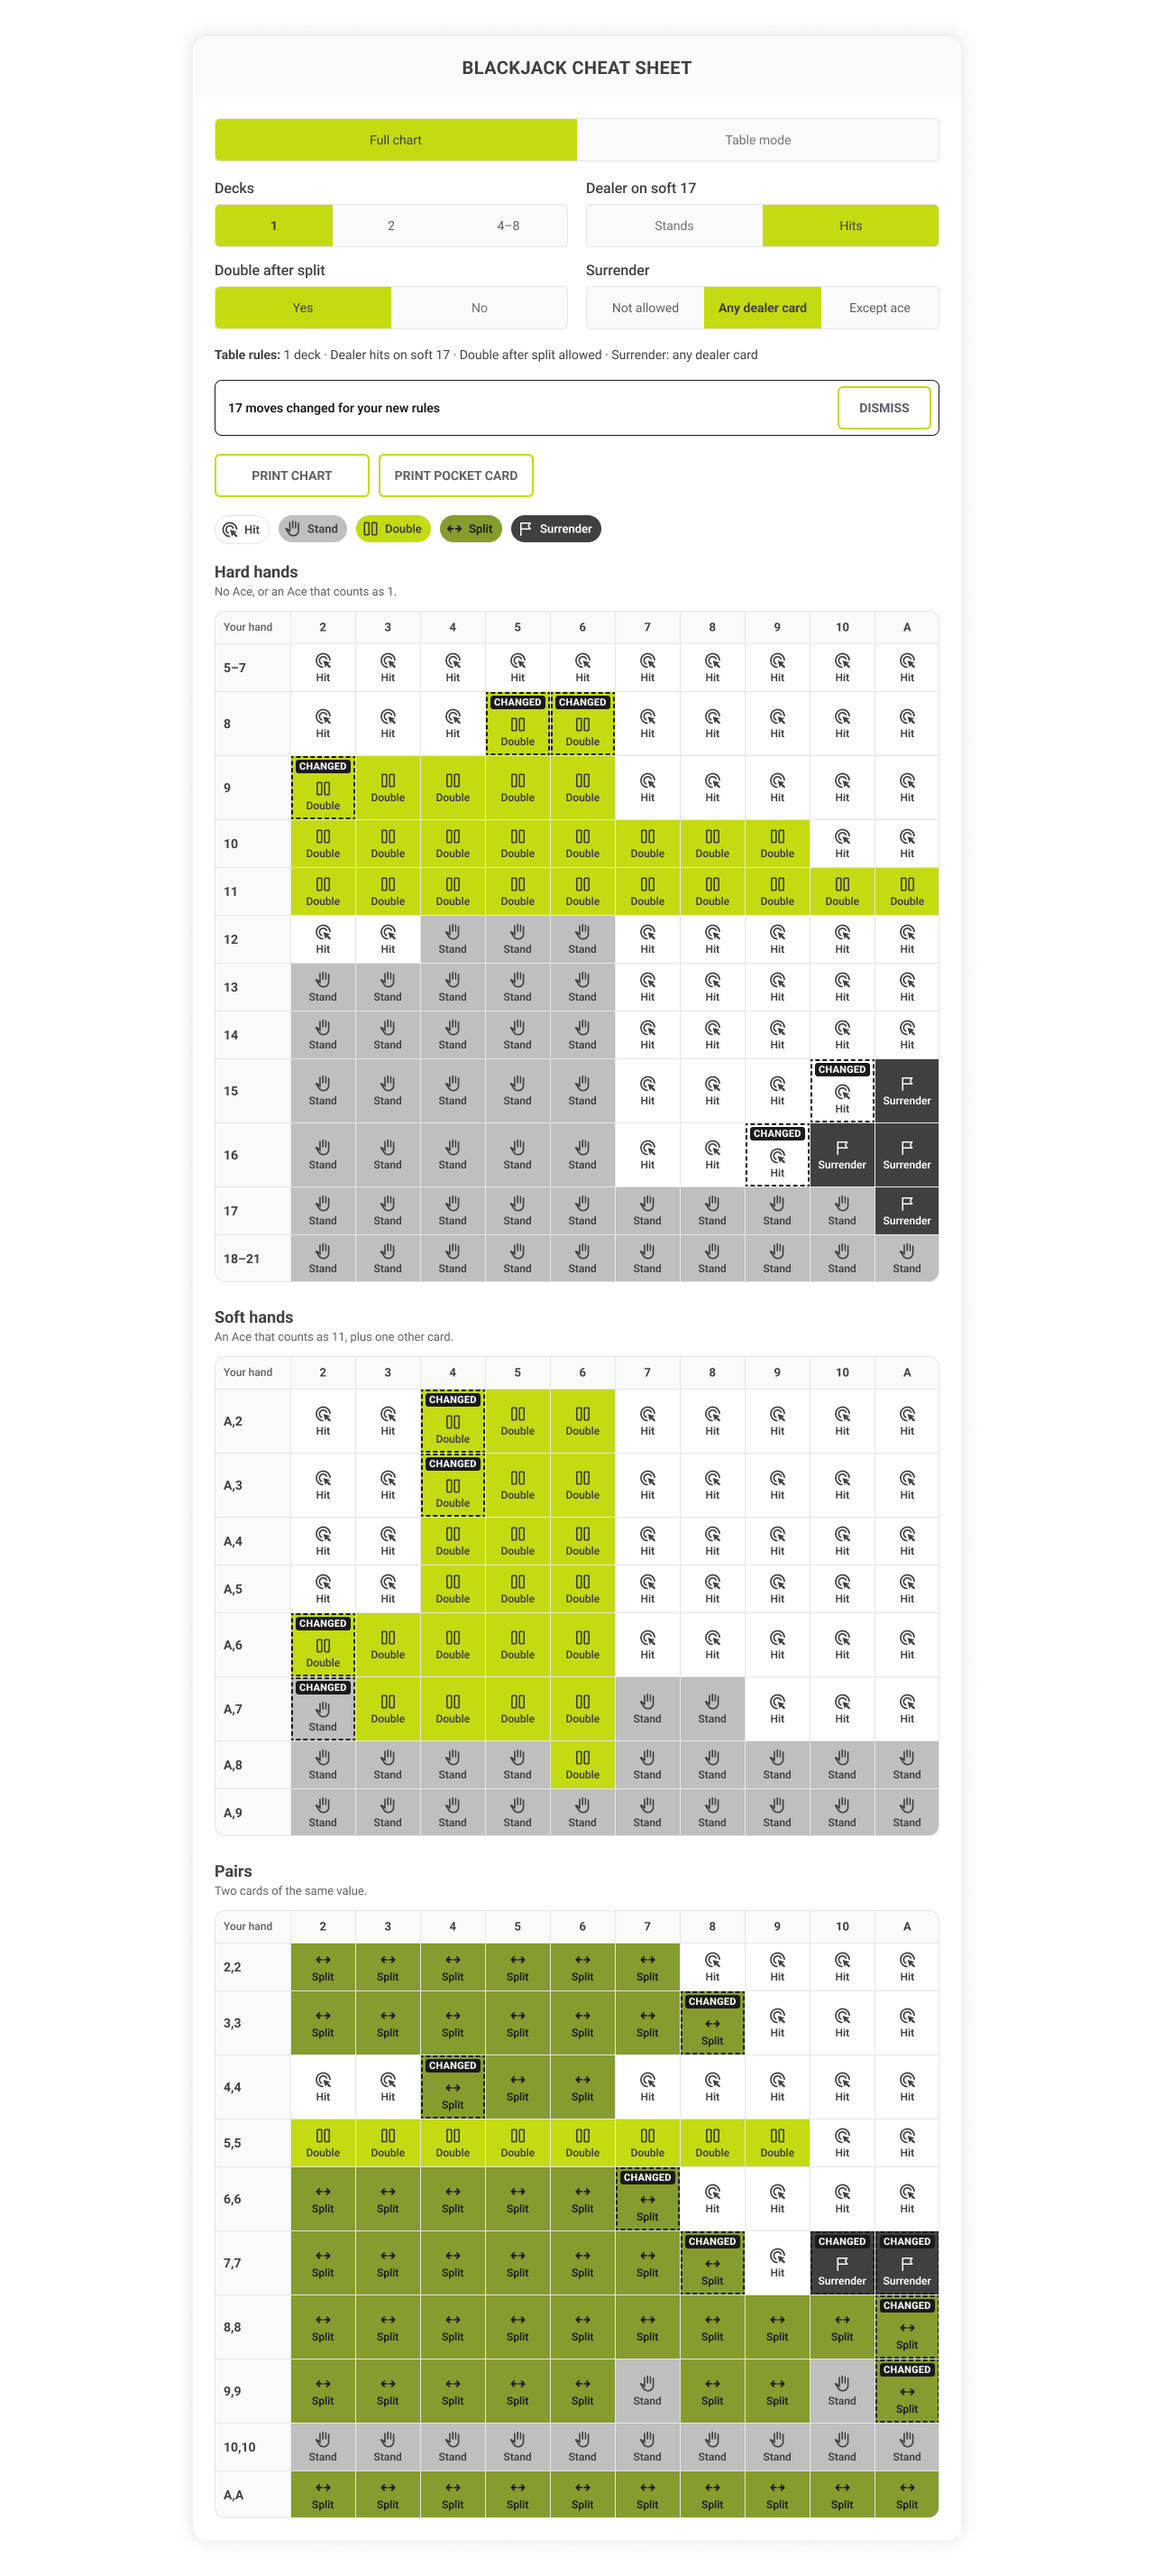
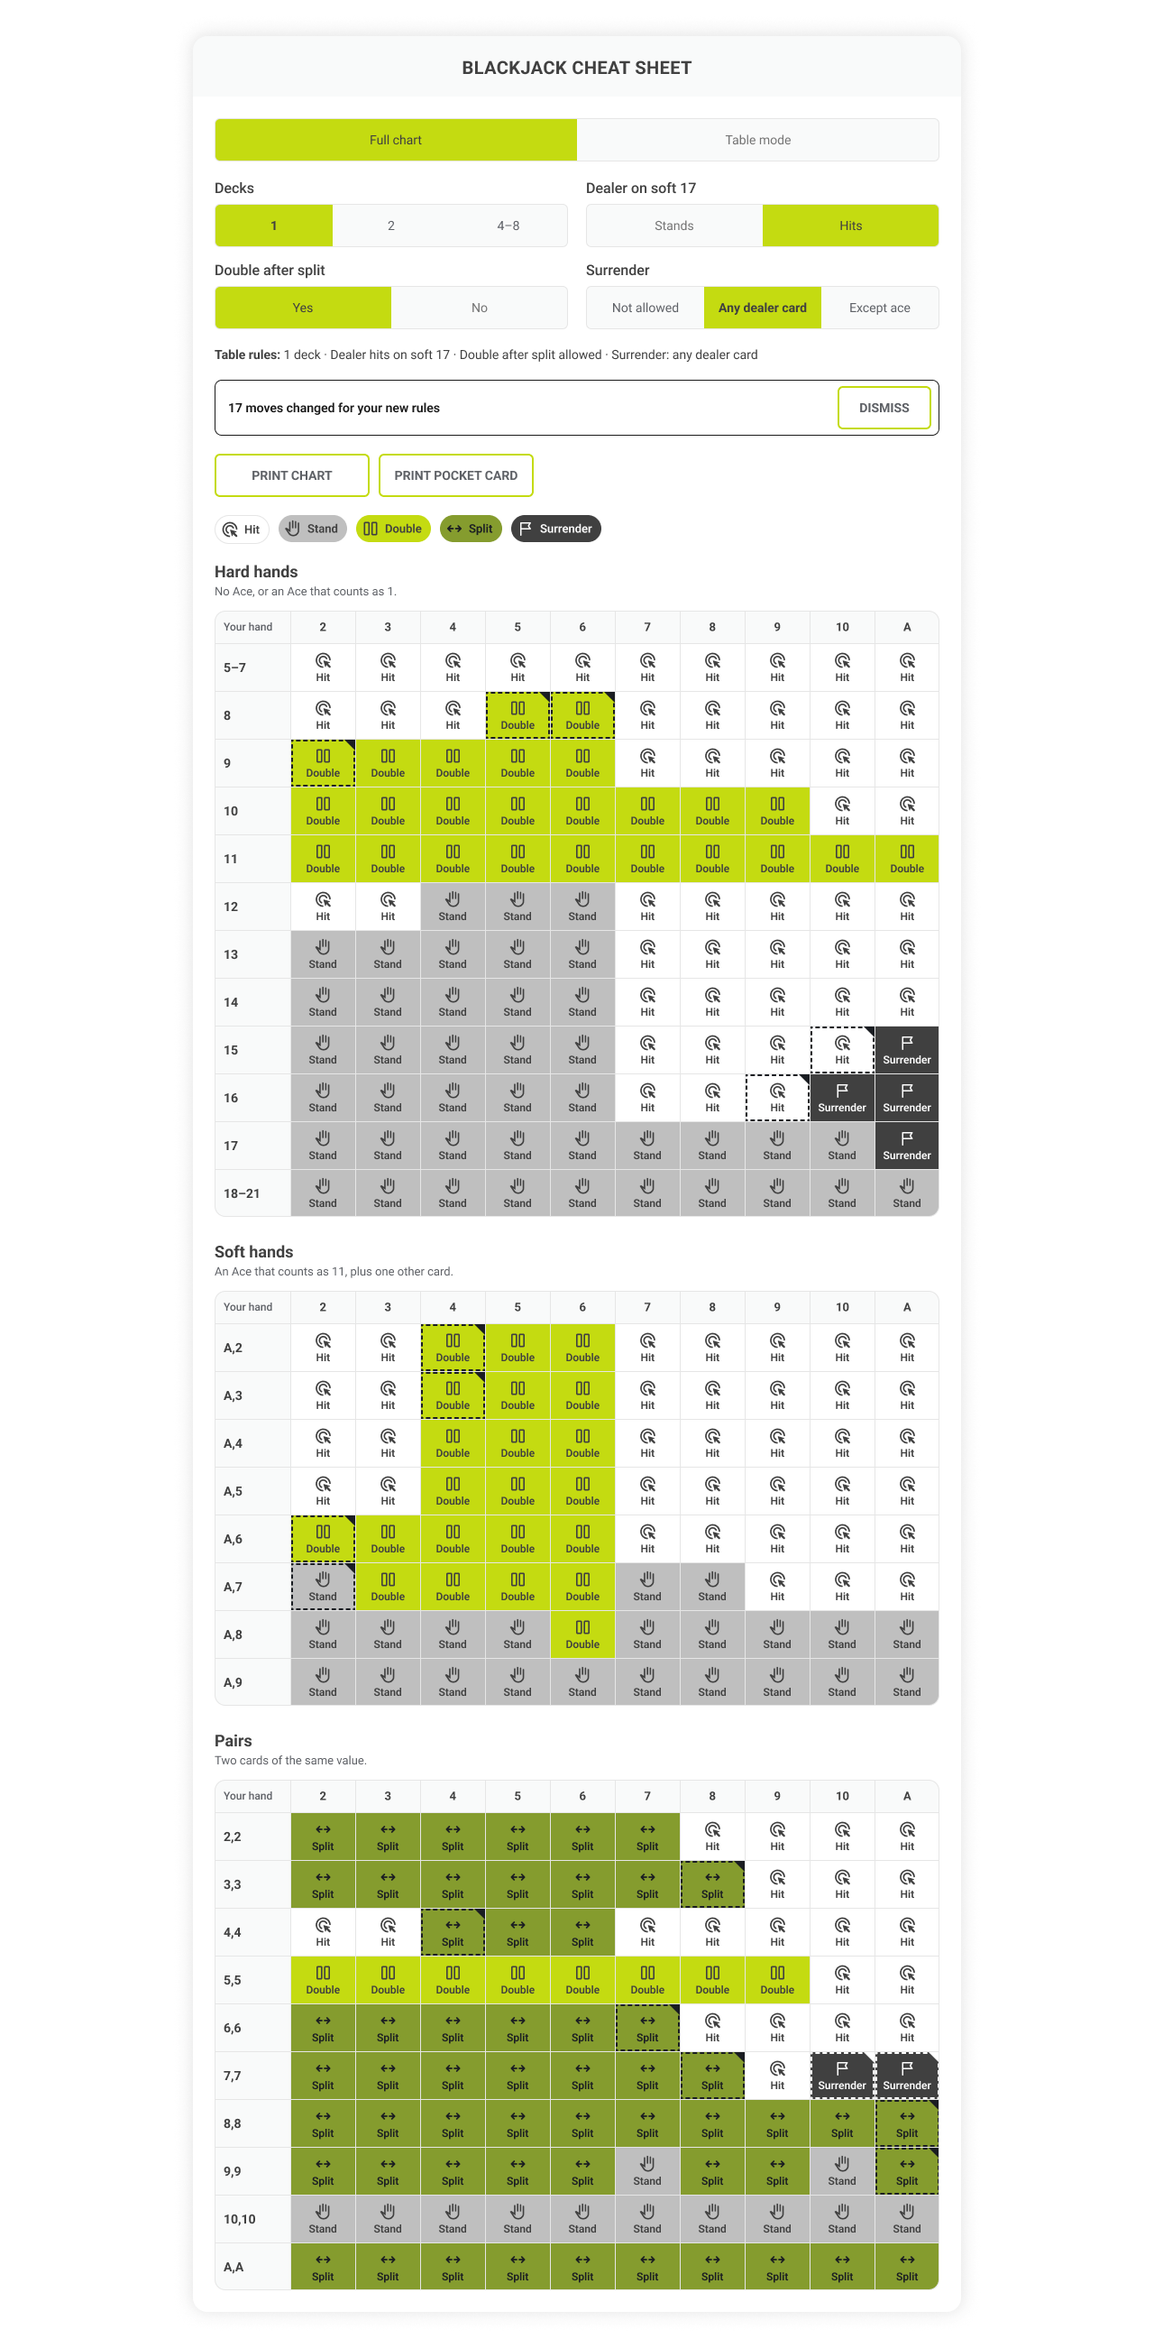
S-13: G4 approved (D-074) — nav 'How to use', 52px rows with corner marker, table-mode full pages; S-21 + Jira scope in backlog

diff --git a/docs/backlog.md b/docs/backlog.md
@@ -34,12 +34,17 @@ Defaults on load: 4–8 decks · dealer hits soft 17 · DAS allowed · surrender
 ## Sprint 3 — Figma (D2) · APPROVED at G1 (D-069); Jira (D3) after G4
 | ID | Story (one output) | Agent | Goal | Gate | State |
 |---|---|---|---|---|---|
-| S-13a | Figma full page 1280 + 390 (Quiz pattern), real H1 (BFC-55463), placeholder copy (BFC-55461), Q&As component sample state, carousel, "Learn this chart" v2 slot (D-051, D-069) | figma-designer | 1 | G4 | reviewed (G4 pending) |
-| S-13b | Figma tool screens 1280 + 390: default chart, reason panel (+ note), rules changed, table mode states, 390 rules collapsed + swipe cue; CHIPY tokens, F2 contrast, F4 badge (D-053, D-068, D-069) | figma-designer | 2 | G4 | reviewed (G4 pending) |
-| S-13c | Figma print: full-page chart + A6 pocket card, rules printed (D-064, D-069) | figma-designer | 2 | G4 | reviewed (G4 pending) |
-| S-14 | Jira draft: Calculation Logic & Lookup Tables (engine + snapshot; must state the 2-cell deviation from v30: Single/H17 6,6 vs 7 Ph, Multi/H17 8,8 vs A Rpa — D-046, D-049) | jira-writer | 3 | G5 | proposed |
-| S-15 | Jira drafts: Tool Layout (reserve space for v2 "Learn this chart", D-051; notes for the design-system owner: in-page nav item height, breadcrumb tap targets, inactive segmented label contrast 4.41:1 — D-072), Tool Functionality | jira-writer | 3 | G5 | proposed |
-| S-16 | Jira drafts: SEO Content (incl. keyword split decision with Ahrefs, D-016), Common Sections, related tools, sitemaps/index/search | jira-writer | 1 | G5 | proposed |
+| S-13a | Figma full page 1280 + 390 (Quiz pattern), real H1 (BFC-55463), placeholder copy (BFC-55461), Q&As component sample state, carousel, "Learn this chart" v2 slot (D-051, D-069) | figma-designer | 1 | G4 | done (G4 D-074) |
+| S-13b | Figma tool screens 1280 + 390: default chart, reason panel (+ note), rules changed, table mode states, 390 rules collapsed + swipe cue; CHIPY tokens, F2 contrast, F4 badge (D-053, D-068, D-069) | figma-designer | 2 | G4 | done (G4 D-074) |
+| S-13c | Figma print: full-page chart + A6 pocket card, rules printed (D-064, D-069) | figma-designer | 2 | G4 | done (G4 D-074) |
+| S-14 | Jira draft: Calculation Logic & Lookup Tables (engine + snapshot; must state the 2-cell deviation from v30: Single/H17 6,6 vs 7 Ph, Multi/H17 8,8 vs A Rpa — D-046, D-049) | jira-writer | 3 | G5 | done in Jira by Cowork (BFC-55467, D-074) |
+| S-15 | Jira content for existing BFC-55465 Tool Layout (reserve space for v2 "Learn this chart", D-051; notes for the design-system owner: in-page nav item height, breadcrumb tap targets, inactive segmented label contrast 4.41:1 — D-072), Tool Functionality | jira-writer | 3 | G5 | proposed |
+| S-16 | Jira drafts: SEO Content (incl. keyword split decision with Ahrefs, D-016), Common Sections, related tools, sitemaps/index/search | jira-writer | 1 | G5 | done in Jira by Cowork (BFC-55463/64/68–74, D-074) |
+
+## Follow-ups
+| ID | Story (one output) | Agent | Goal | Gate | State |
+|---|---|---|---|---|---|
+| S-21 | Prototype sync with Figma (D-074): light outline on dark (Surrender) cells, print title #404040, pocket sheet centred, chart rows keep 52px when marked changed — use Figma marker: 2px dashed inner outline + 12px corner triangle, white on Surrender; drop the 9px "Changed" text badge | ui-dev | 2 | — | approved |
 
 ## v2 (next version, not now)
 - "Learn this chart": memory rules for the player's chart (D-051).

diff --git a/docs/decisions.md b/docs/decisions.md
@@ -77,3 +77,4 @@ Format: ID · date · decision · by. Newest at the bottom. Superseded rows move
 | D-072 | 2026-10-05 | S-13a visual choices as built: title text/heading #404040 (9.9:1); move palette Hit white · Stand #bfbfbf · Double lime #c4db11 · Split olive #859c2e · Surrender #404040; library upper-case print buttons; carousel heading "Discover Other Blackjack Tools"; Quiz page chrome (no Embed/FAQs widget); "CS / Move" stays local. Library a11y issues (in-page nav item height, breadcrumb targets, inactive segmented label 4.41:1) go into S-15 Tool Layout notes for the design-system owner | Marius |
 | D-071 | 2026-10-05 | Move icons: the Cheat Sheet uses the same icons as the existing Figma pages. Checked: Calculator (12337:2377) and Trainer (13147:1152 desktop, 13147:1242 mobile) both use Double = two bars, Split = ↔ arrows (+ Hit pointer, Stand hand, Surrender flag) → option A: CS / Move swaps the library set (Double "2x", Split bars) for the icon the Action buttons use | Marius |
 | D-073 | 2026-10-05 | S-13a feedback before G4: replace placeholder boxes with real page components — top section = instance of 13996:5601 (Quiz top section; breadcrumb "Blackjack Cheat Sheet", H1 "Blackjack Cheat Sheet: Basic Strategy Chart for Your Table Rules", component sample body text kept); lower content = instance of 13996:5606 (How to use + info/tip boxes + steps + FAQs; headings "How to use the Blackjack Cheat Sheet" and "Blackjack Cheat Sheet FAQs", sample body text kept; real copy later from BFC-55461) — mobile variants on 390; v2 slot stays below the tool (D-070); in-page nav aligned exactly as on the Quiz full page (1280 + 390); order: top section → in-page nav → tool → v2 slot → How to use/lower content/FAQs → Q&As → Other Blackjack Tools → contributors. Supersedes D-069's "labelled placeholders" for page copy | Marius |
+| D-074 | 2026-10-05 | G4 approved (A) with changes: nav item "How to use"; chart rows never change height on a rules change (keep 52px; marker that fits — Figma + S-21 if prototype differs); add "CS / Full page – Table mode / 1280 / 390" (full page with the table-mode result Hard 16 vs 10 → Surrender); items 3–8 as built; light outline on dark cells + print title/centring + row-height rule → S-21 prototype sync. Jira: S-14 and S-16 already done in Jira by Cowork (tree BFC-55462: BFC-55467 Calculation Logic; BFC-55463/64/68–74) — not drafted; S-15 = content for existing BFC-55465 (Tool Layout, incl. D-072 library a11y notes + "Lower content as library component" proposal) and BFC-55466 (Tool Functionality), G5 before writing to Jira. Codex skipped for docs/PNG push (D-031) | Marius |

diff --git a/docs/stories/S-13a-figma-full-page.md b/docs/stories/S-13a-figma-full-page.md
@@ -1,6 +1,6 @@
 # S-13a — Figma full page, 1280 and 390 (Quiz page pattern)
 
-State: reviewed (G4 pending) · Agent: figma-designer · Goal served: 2 (usable, correct chart; page ready for goal 1 ranking) · Gate: G4 (after S-13c)
+State: done (G4 D-074) · Agent: figma-designer · Goal served: 2 (usable, correct chart; page ready for goal 1 ranking) · Gate: G4 (after S-13c)
 
 ## Why
 Marius needs to see the whole Cheat Sheet page as a visitor would (D-069), in the same layout as the Quiz page, before tool states (S-13b) and print (S-13c) are designed.
@@ -47,4 +47,4 @@ The Lead checks with Figma screenshots (story-reviewer cannot open Figma).
 
 Overall: PASS (Lead, 2026-10-05), pending G4 with S-13b/c.
 D-073 rework (Lead check via exports): top section = "Top section full width" 12625:94021 / mobile 12625:94028 (the main component behind Quiz 13996:5601), breadcrumb + exact H1, sample text; lower content rebuilt from the Quiz parts (13996:5606 / 13996:6184 are frames, not components — Callout box, Numbered list, FAQs Widget instances), headings "How to use the Blackjack Cheat Sheet" / "Blackjack Cheat Sheet FAQs"; in-page nav new instance, tabs at content column x=190 (1280), full width (390); order per D-073; frames 1280×9398 / 390×10757; tool, v2 slot, Q&As, carousel, contributors unchanged. Open: nav label "How It Works" vs heading "How to use…".
-
+D-074: nav item "How to use" (component renders "How To Use"); new CS / Full page – Table mode 1280 14071:660225 / 390 14071:661008.

diff --git a/docs/stories/S-13b-figma-tool-screens.md b/docs/stories/S-13b-figma-tool-screens.md
@@ -1,6 +1,6 @@
 # S-13b — Figma tool screens, 1280 and 390 (the tool in each state)
 
-State: reviewed (G4 pending) (G1 D-069) · Agent: figma-designer · Goal served: 2 (usable, correct chart at the table) · Gate: G4 (after S-13c)
+State: done (G4 D-074) (G1 D-069) · Agent: figma-designer · Goal served: 2 (usable, correct chart at the table) · Gate: G4 (after S-13c)
 
 ## Why
 S-13a shows the whole page. Marius also needs every state of the tool itself (chart, reason panel, rules changed, Table mode) drawn once, so the prototype can be signed off against Figma before Jira (D-069).
@@ -49,4 +49,4 @@ The Lead checks with Figma screenshots (story-reviewer cannot open Figma).
 | all | Pass | 18 frames (8 × 1280, 10 × 390) on 14034:33811, IDs in docs/status.md at G4; chart cells = snapshot in frames 1–4, 10 (designer check); 17 marked cells = Lead's own snapshot diff 4-8→1 (exact match); reason/note strings from prototype/engine; "CHANGED" badge 11px above the icon (F4); targets ≥44px; 390 frames exactly 390 wide; reuses S-13a shell + CS / Move (local icons, D-071); new local CS / Pick (14060:14892); 18 PNGs in docs/figma/ |
 
 Overall: PASS (Lead, 2026-10-05), pending G4. Designer trade-offs (badge row height, table-mode rule collapse at 1280, library button caps, open-cell outline on Surrender cells) → G4 card.
-
+D-074: changed rows back to 52px; marker = dashed inner outline + 12px corner triangle (white on Surrender), 9px text badge removed; CS / Move State=Changed variants.

diff --git a/docs/status.md b/docs/status.md
@@ -15,9 +15,10 @@ Last updated: 2026-10-05 (home-mac-mini, Claude Code CLI)
 - Rules changed 14060:11755 / 14060:13320 · TM empty 14060:14893 / 14060:15510 · TM hand 14061:13759 / 14061:14223
 - TM result 14061:13883 / 14061:14345 · TM result changed 14061:14048 / 14061:14508 (1280 / 390)
 - 390 only: Rules collapsed 14061:658319 · Swipe cue 14061:658393. Print: full A4 14063:15139 · pocket A4 14065:16035
+- Full page – Table mode 1280 14071:660225 · 390 14071:661008 (D-074). CS / Move State=Changed 14071:16537–16557.
 
 ## Next
-- G4: Marius signs off S-13a/b/c (Figma), then S-14/S-15/S-16 Jira drafts.
+- G4 approved (D-074). Next: S-15 Jira content for BFC-55465/66 (G5), S-21 prototype sync. S-14/S-16 done in Jira by Cowork.
 - Card next session: refresh .claude/agents/ui-dev.md for D-050/D-053/D-056 (housekeeper).
 - work-lenovo clone pending.
 

diff --git a/docs/stories/S-13c-figma-print.md b/docs/stories/S-13c-figma-print.md
@@ -1,6 +1,6 @@
 # S-13c — Figma print: one full-page chart and one pocket card (A4)
 
-State: reviewed (G4 pending) (G1 D-069) · Agent: figma-designer · Goal served: 2 (usable at the table, printable) · Gate: G4
+State: done (G4 D-074) (G1 D-069) · Agent: figma-designer · Goal served: 2 (usable at the table, printable) · Gate: G4
 
 ## Why
 The prototype prints two sheets (S-11): a full page and a small pocket card to carry. Marius needs both drawn in Figma, at the default rules, so G4 can sign off the whole page, screens and print before Jira (D-064, D-069).
